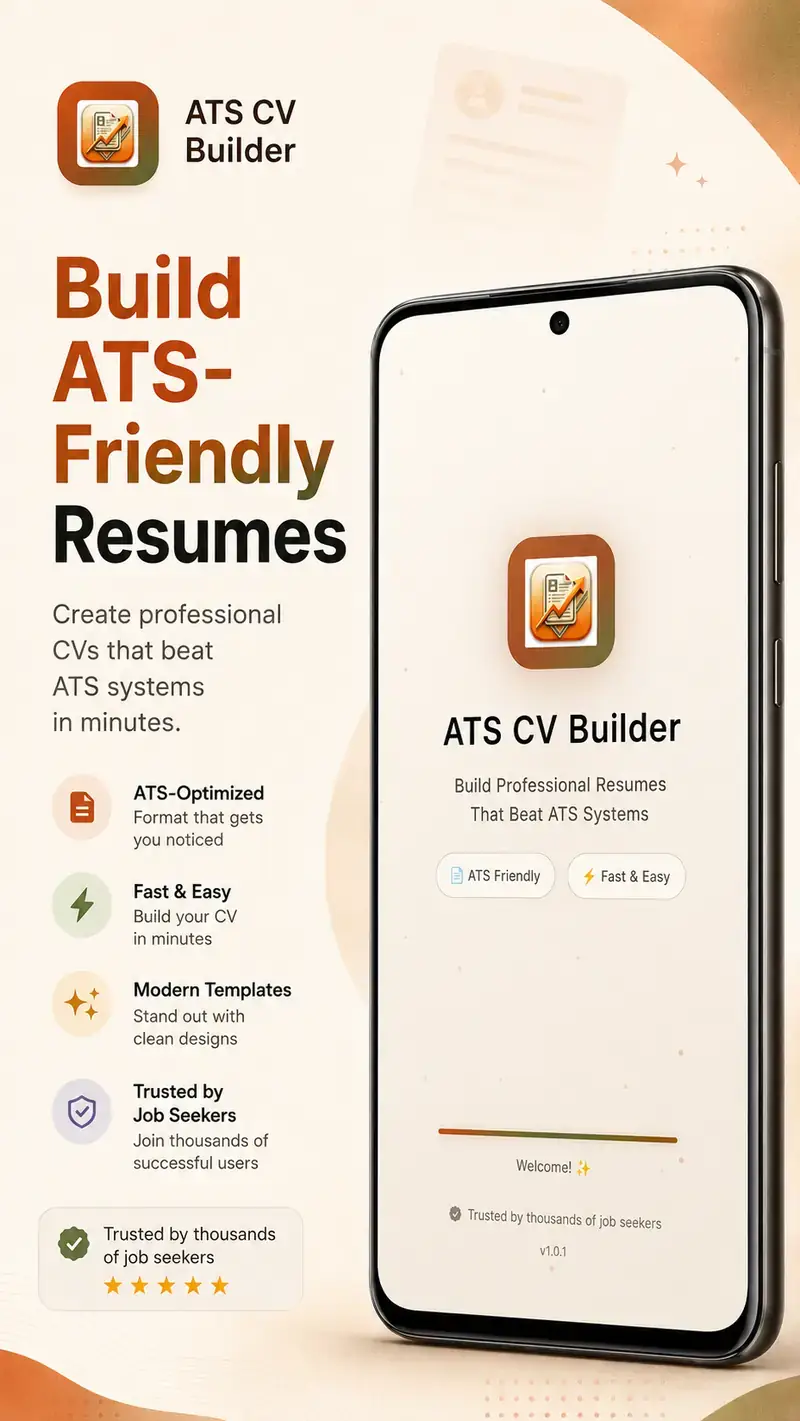
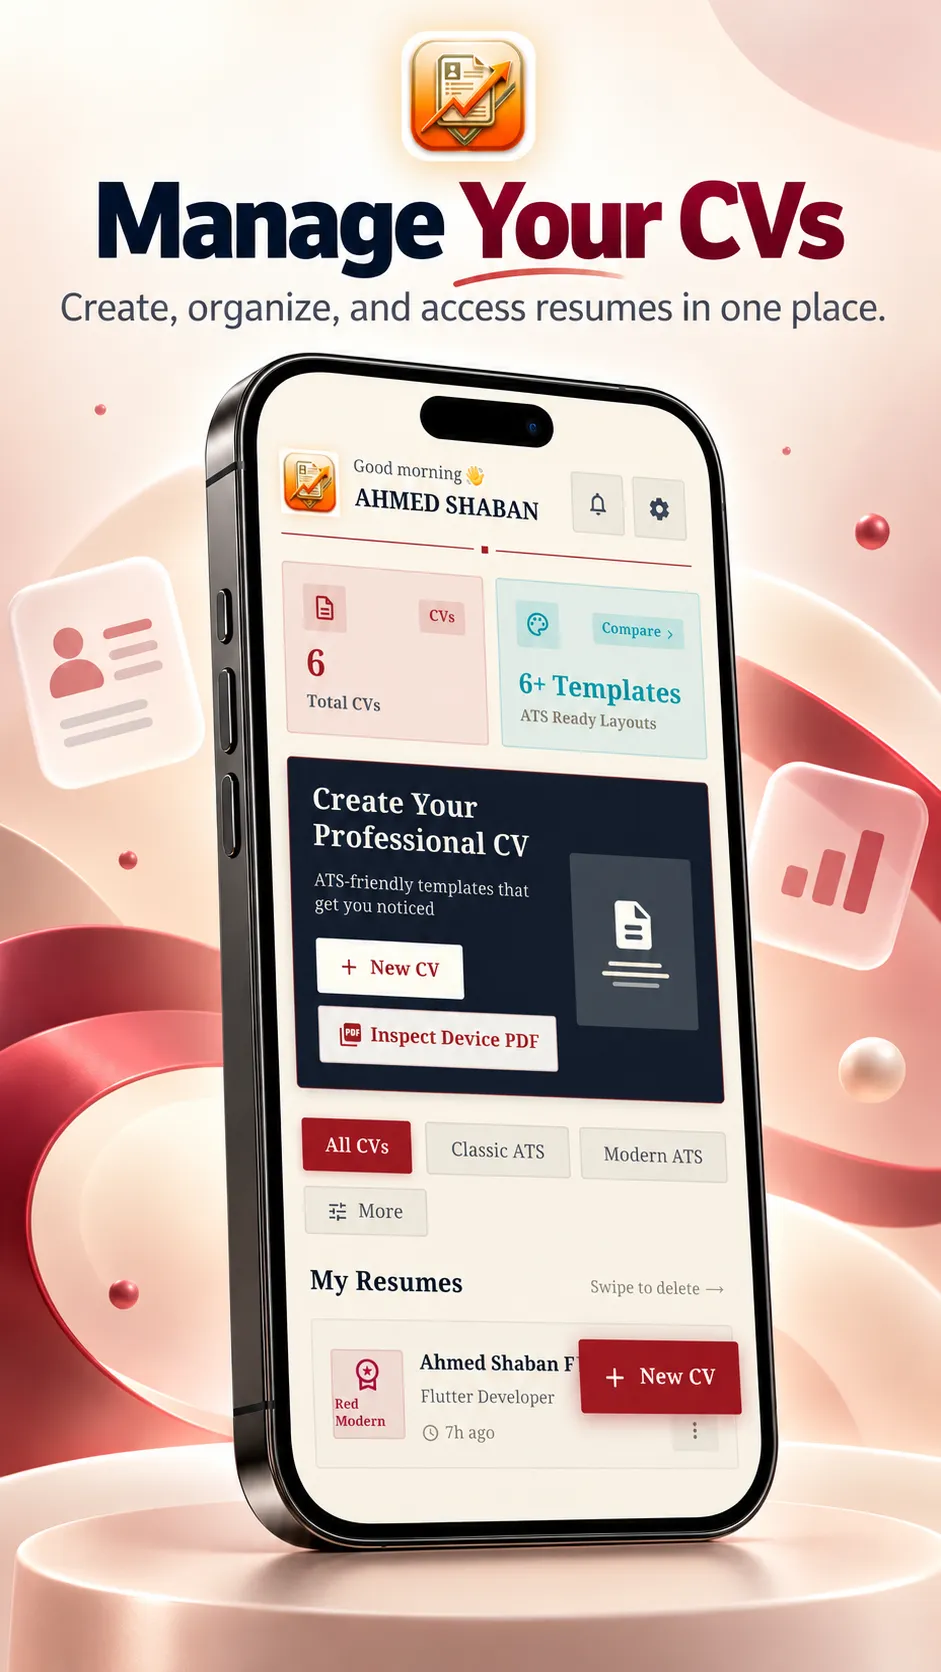
Update cvBuilder Screenshots

diff --git a/src/data/projects.ts b/src/data/projects.ts
@@ -42,11 +42,14 @@ export const flutterProjects: Project[] = [
     demoKind: "play",
     coverImage: "/projects/cv-builder/shot-2.webp",
     screenshots: [
+      "/projects/cv-builder/shot-1.webp",
       "/projects/cv-builder/shot-2.webp",
       "/projects/cv-builder/shot-3.webp",
       "/projects/cv-builder/shot-4.webp",
       "/projects/cv-builder/shot-5.webp",
       "/projects/cv-builder/shot-6.webp",
+      "/projects/cv-builder/shot-7.webp",
+      "/projects/cv-builder/shot-8.webp",
     ],
   },
   {

diff --git a/docs/agents/domain.md b/docs/agents/domain.md
@@ -1,0 +1,21 @@
+# Domain Docs — Single Context Layout
+
+This repo uses a **single-context** layout for domain documentation:
+
+- **`GLOSSARY.md`** at the repo root — contains all domain terms and vocabulary
+- **`docs/adr/`** at the repo root — contains Architecture Decision Records
+
+## Consumer Rules
+
+When reading or referencing domain docs:
+
+1. All terms are resolved from the root `GLOSSARY.md` first
+2. ADRs in `docs/adr/` reference terms from `GLOSSARY.md`
+3. No `GLOSSARY-MAP.md` is needed (multi-context not used)
+4. New ADRs should be named `NNNN-short-description.md` where NNNN is a sequential number
+
+## Conventions
+
+- Add new domain terms to `GLOSSARY.md` when they first appear
+- Create ADRs for significant decisions before implementation
+- Reference `GLOSSARY.md` terms using the established link format

diff --git a/docs/agents/issue-tracker.md b/docs/agents/issue-tracker.md
@@ -1,0 +1,24 @@
+# Issue Tracker
+
+This repo uses **GitHub Issues** for tracking work.
+
+- **CLI**: `gh` (GitHub CLI)
+- **Workflow**: Standard GitHub Issues flow — create, comment, label, close
+- **PRs as request surface**: Off (default for GitHub template)
+
+The five canonical triage labels (since the `triage` skill is not installed):
+- `needs-triage`
+- `needs-info`
+- `ready-for-agent`
+- `ready-for-human`
+- `wontfix`
+
+To create an issue from the command line:
+```bash
+gh issue create --title "your title" --body "your description"
+```
+
+To label an issue:
+```bash
+gh issue edit <issue-number> --label <label-name>
+```

diff --git a/AGENTS.md b/AGENTS.md
@@ -1,0 +1,13 @@
+# Agent Skills
+
+This repo is configured for Matt Pocock's engineering skills.
+
+## Agent skills
+
+### Issue tracker
+
+GitHub. See `docs/agents/issue-tracker.md`.
+
+### Domain docs
+
+single-context. See `docs/agents/domain.md`.
